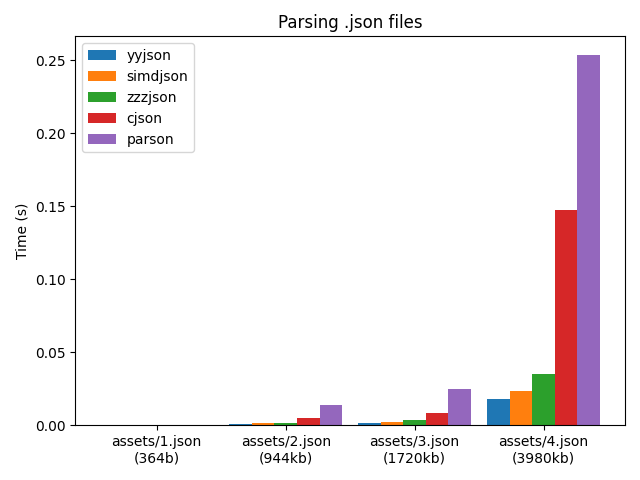
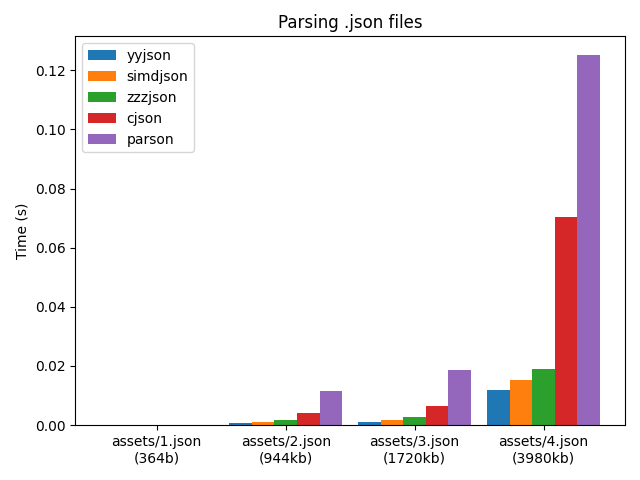
Updated to arm64

diff --git a/README.md b/README.md
@@ -2,10 +2,15 @@
 
 ## Setup + Build
 
+(Only tested with macOS)
 Install submodules and then build:
 
-    ./update_submodules.sh
-    ./compile_tests.sh
+    $ ./update_submodules.sh
+    $ ./compile_tests.sh
+
+Prerequisites for the image generation are `matplotlib` and `numpy`:
+
+    $ brew install numpy matplotlib
 
 ## Run tests
 
@@ -13,6 +18,8 @@ Install submodules and then build:
     ./generate_images.sh
 
 ## Results
+
+Tested on macOS M1 (arm64)
 
 [parse](./reports/parse.json)
 [traverse](./reports/traverse.json)
